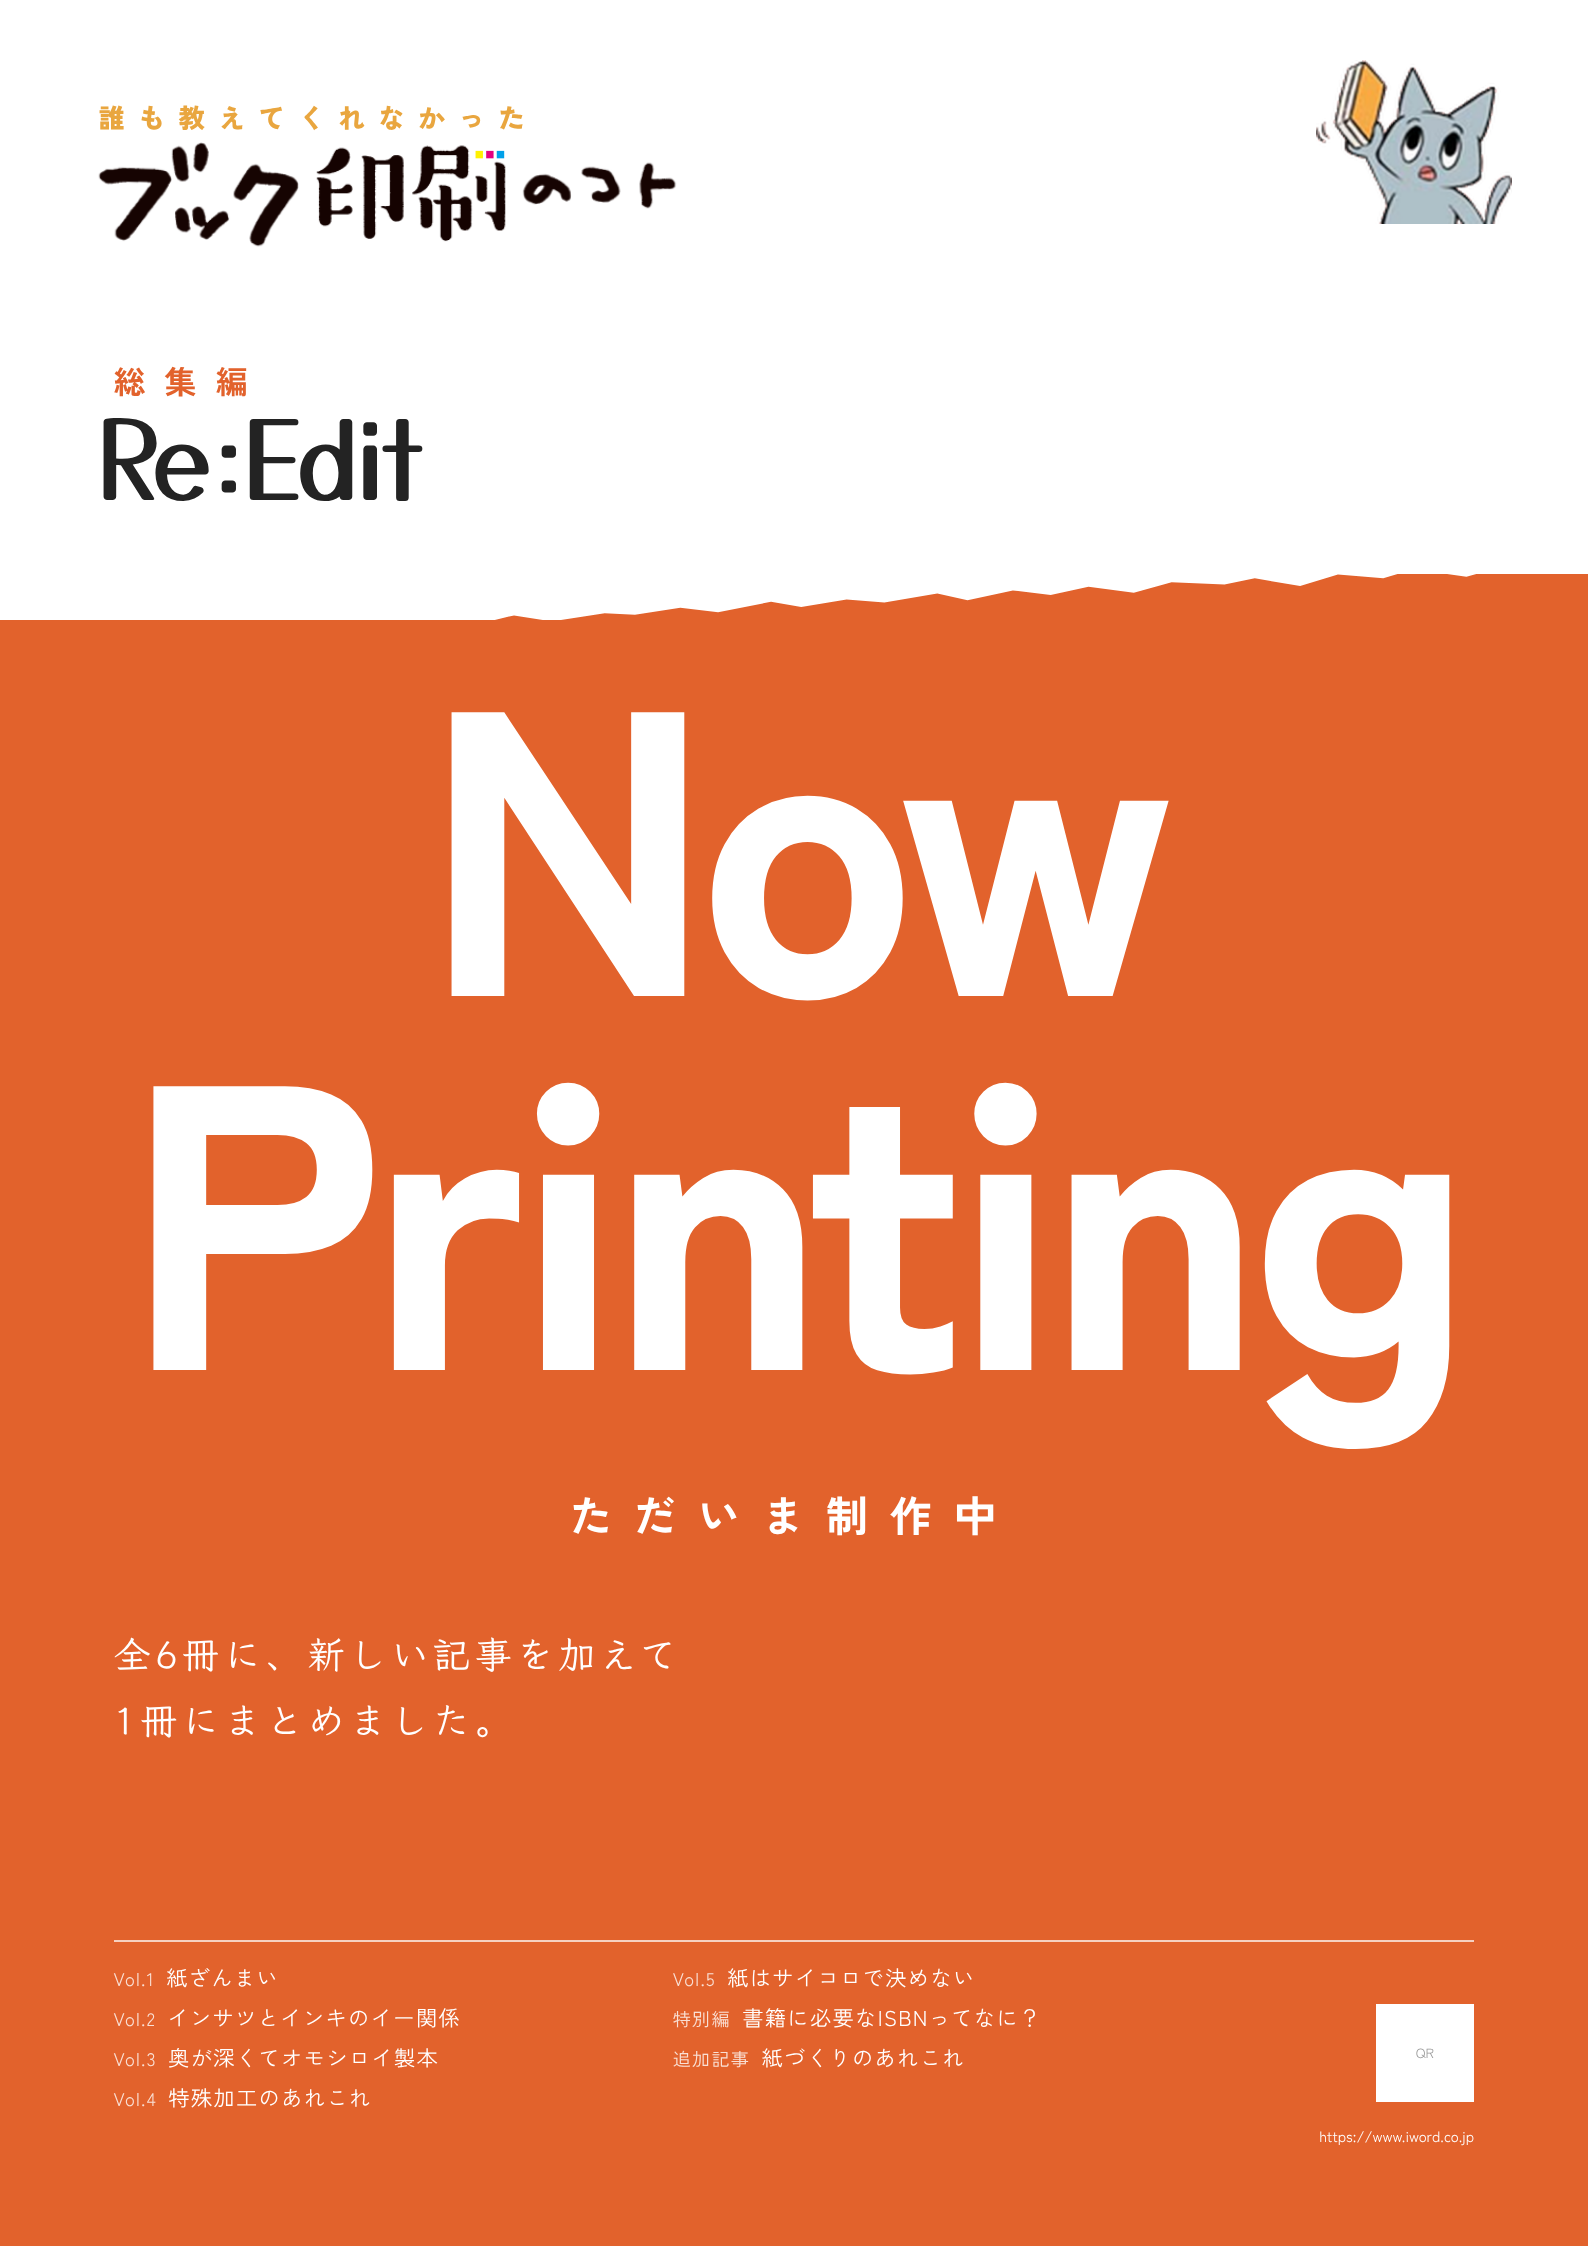
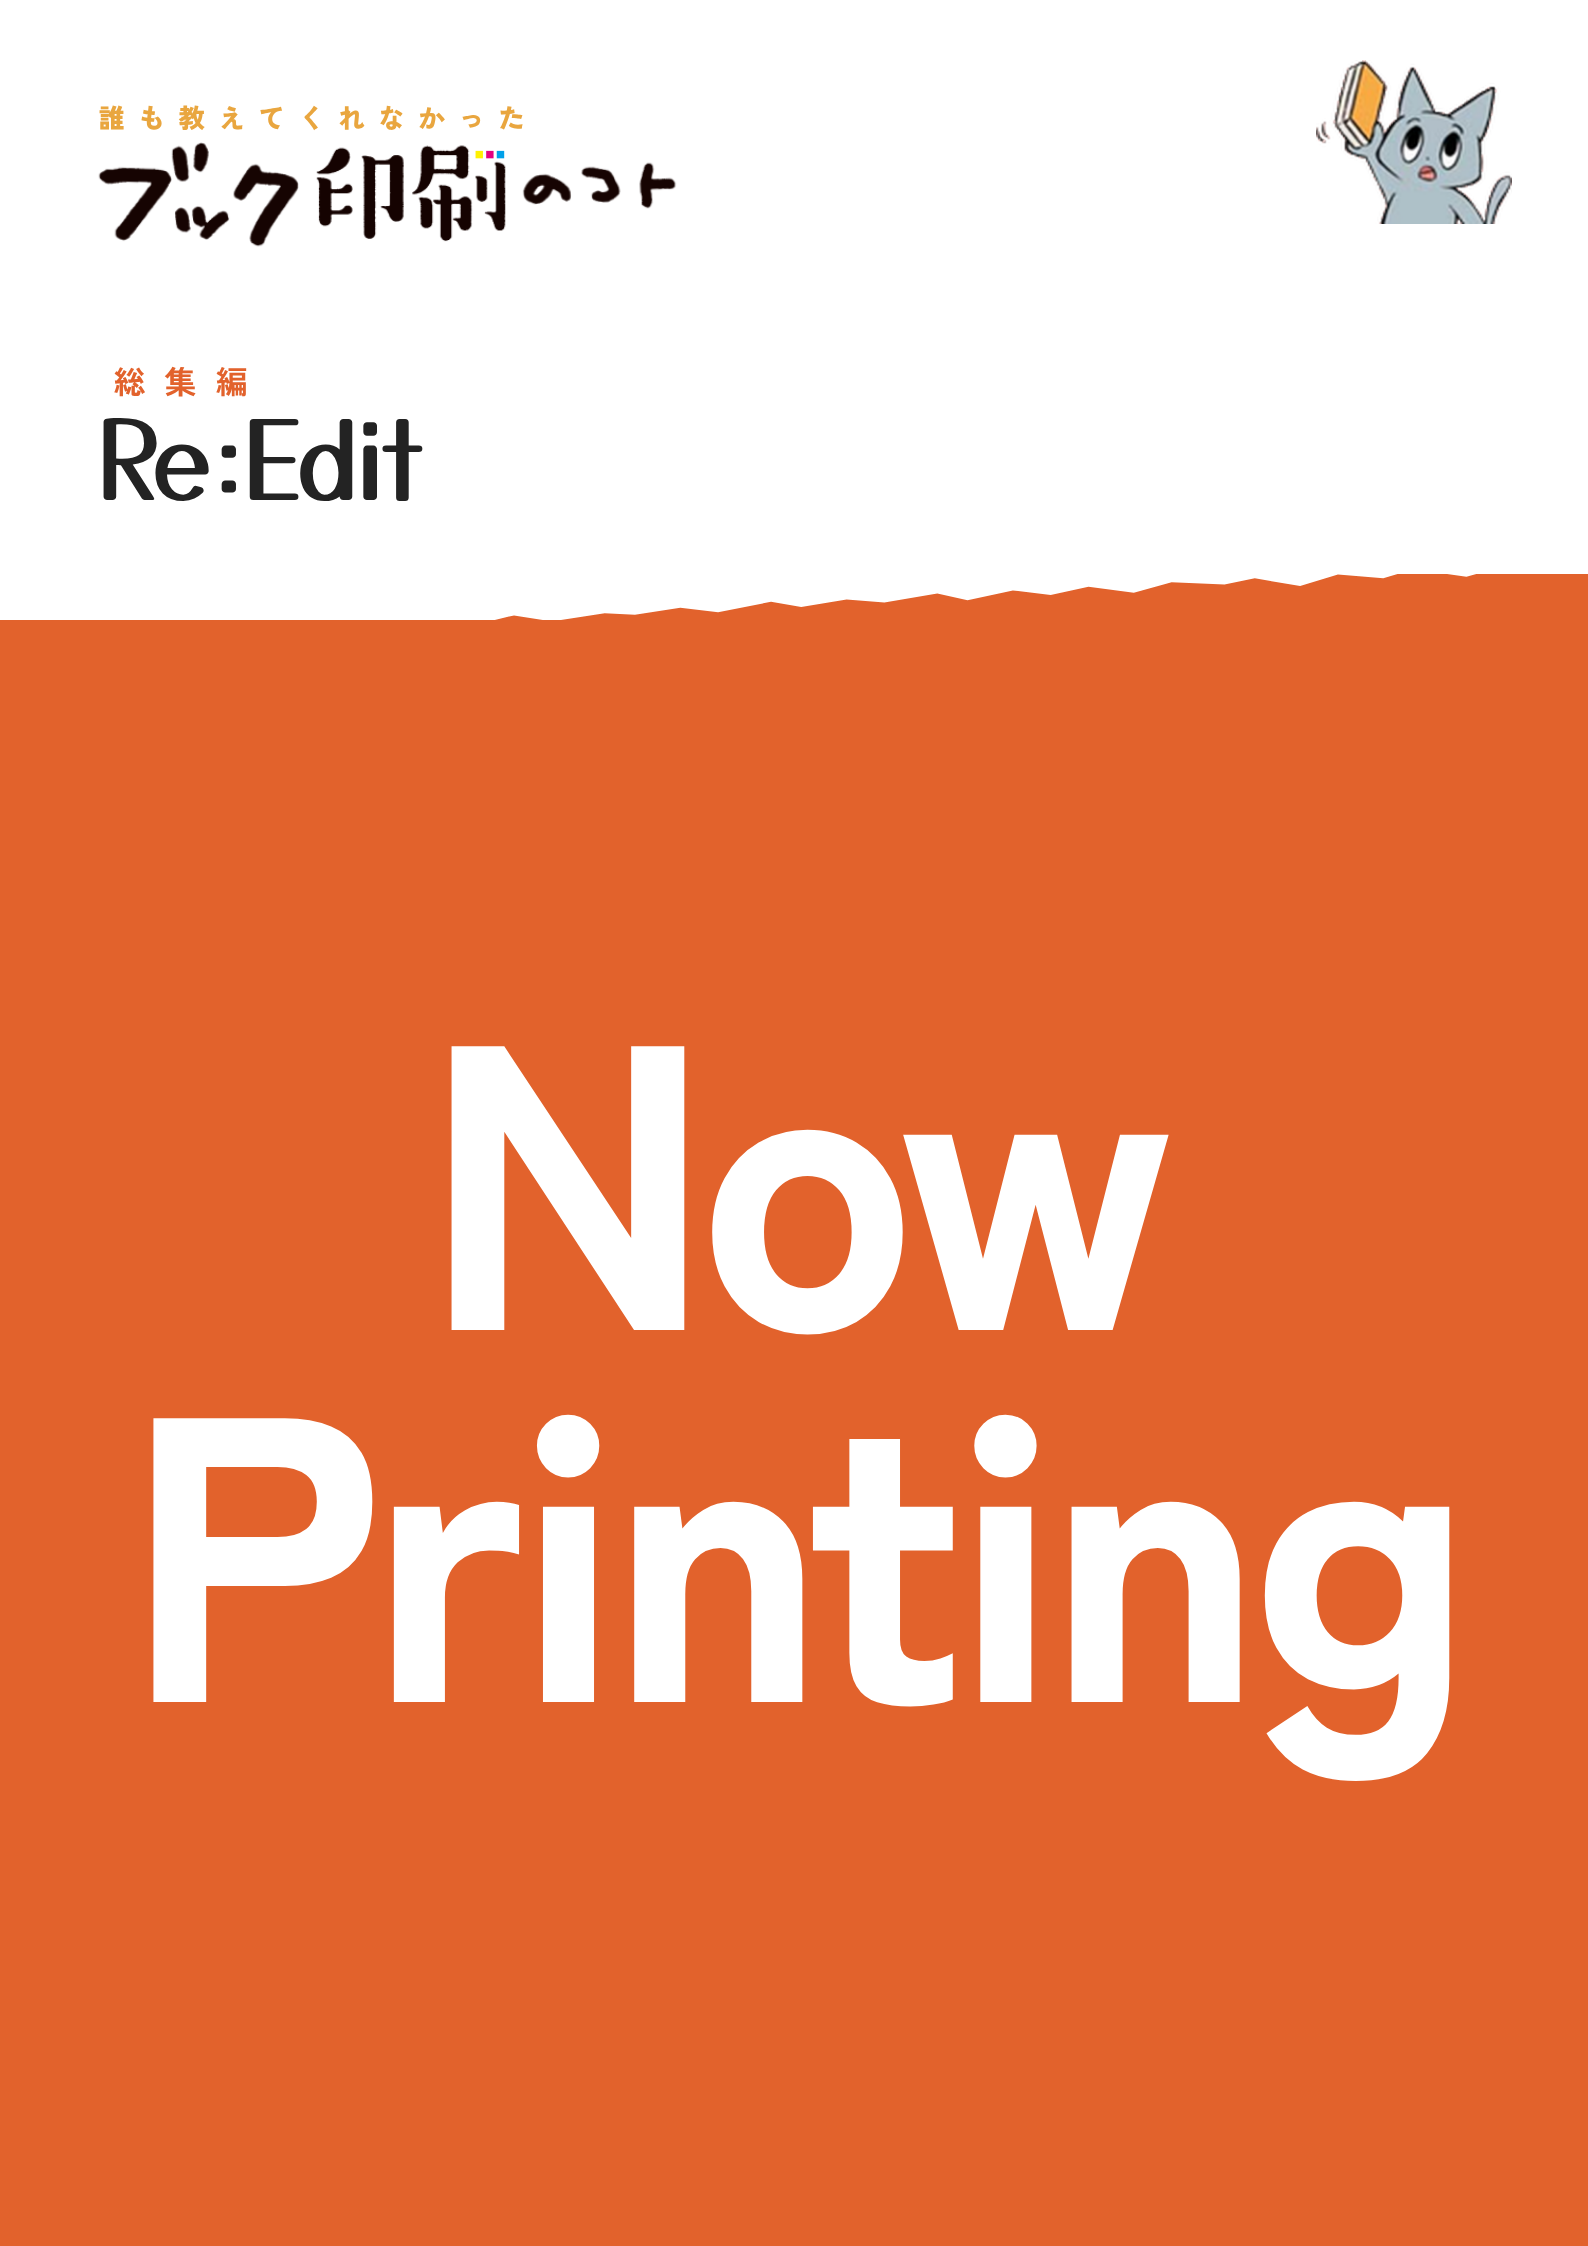
Re:Edit 表紙：Now Printing 下の文字とQRを削除
Claude-Session: https://claude.ai/code/session_013USWM13maFLw8nWynxtzKi

diff --git a/flyer/tokyo/reedit_cover.html b/flyer/tokyo/reedit_cover.html
@@ -19,15 +19,7 @@ body{font-family:"Zen Kaku Gothic New",sans-serif;color:var(--ink);background:#8
 .torn{position:absolute;left:0;top:70mm;width:210mm;height:12mm;z-index:2}
 .sou{position:absolute;top:47mm;left:15mm;color:var(--orange);font-size:12pt;font-weight:700;letter-spacing:.6em}
 .re{position:absolute;top:53mm;left:13mm;color:var(--ink);font-family:"Yusei Magic",sans-serif;font-size:40pt;line-height:1;letter-spacing:-.01em;white-space:nowrap}
-.now{position:absolute;top:84mm;left:0;right:0;text-align:center;color:#fff;font-weight:900;font-size:152pt;line-height:.92;letter-spacing:-.03em}
-.wip{position:absolute;top:196mm;left:0;right:0;text-align:center;color:#fff;font-weight:700;font-size:16pt;letter-spacing:.5em}
-.lead{position:absolute;top:214mm;left:15mm;color:#fff;font-family:"Klee One",cursive;font-size:14pt;line-height:1.8;letter-spacing:.12em}
-.rule{position:absolute;left:15mm;right:15mm;bottom:40mm;border-top:.3mm solid rgba(255,255,255,.7)}
-.files{position:absolute;left:15mm;bottom:17mm;color:#fff;font-size:8pt;line-height:1.85;letter-spacing:.06em;columns:2;column-gap:8mm;width:140mm}
-.files li{list-style:none;break-inside:avoid}
-.files i{font-style:normal;font-size:6.8pt;opacity:.8;margin-right:1.5mm}
-.qr{position:absolute;right:15mm;bottom:19mm;width:13mm;height:13mm;background:#fff;display:flex;align-items:center;justify-content:center;font-size:5pt;color:#999}
-.url{position:absolute;right:15mm;bottom:13mm;color:#fff;font-size:5.5pt}
+.now{position:absolute;top:128mm;left:0;right:0;text-align:center;color:#fff;font-weight:900;font-size:152pt;line-height:.92;letter-spacing:-.03em}
 </style>
 </head>
 <body>
@@ -42,21 +34,7 @@ body{font-family:"Zen Kaku Gothic New",sans-serif;color:var(--ink);background:#8
   <span class="sou">総集編</span>
   <span class="re">Re:Edit</span>
   <p class="now">Now<br>Printing</p>
-  <p class="wip">ただいま制作中</p>
-  <p class="lead">全6冊に、新しい記事を加えて<br>1冊にまとめました。</p>
 
-  <div class="rule"></div>
-  <ul class="files">
-    <li><i>Vol.1</i>紙ざんまい</li>
-    <li><i>Vol.2</i>インサツとインキのイー関係</li>
-    <li><i>Vol.3</i>奥が深くてオモシロイ製本</li>
-    <li><i>Vol.4</i>特殊加工のあれこれ</li>
-    <li><i>Vol.5</i>紙はサイコロで決めない</li>
-    <li><i>特別編</i>書籍に必要なISBNってなに？</li>
-    <li><i>追加記事</i>紙づくりのあれこれ</li>
-  </ul>
-  <div class="qr">QR</div>
-  <span class="url">https://www.iword.co.jp</span>
 </div>
 </body>
 </html>
